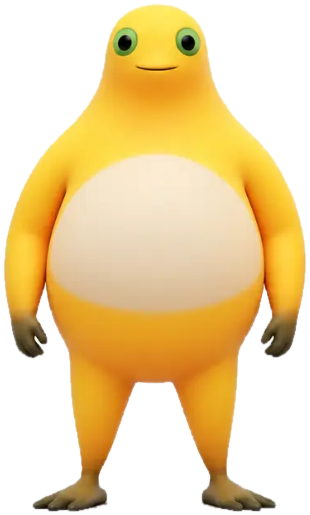
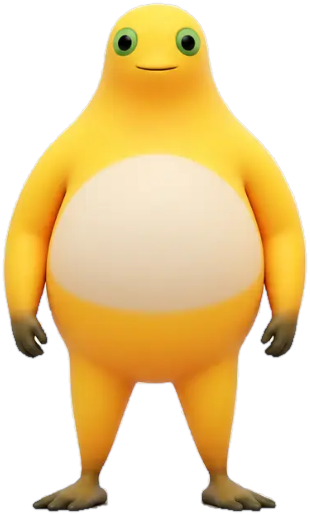
fix(deskpet): 修宠物窗口拖动时尺寸漂移 + 重抠正面图去背景污染
用户实测反馈两个问题（m00919）：

1. 按住宠物会一直变大、还往下移动
   根因：拖动定时器每 16ms 调 w.setPosition(x, y)，setPosition 只给坐标，
   125% 缩放下 Electron 每次都要做 DIP<->物理像素换算，余数被并进窗口尺寸，
   每调一次长 1px。实测 200 次从 191x191 长到 391x391。
   修法：改用 w.setBounds 并显式带 width/height。
   回归：e2e-deskpet-out 新增 P9c（按住 1.2 秒尺寸波动不超过 1px），
   负对照证明退回 setPosition 时该断言会红（1.2 秒涨 38px）。

2. 抠图不干净（边缘发白）
   量出证据：半透明边缘像素平均 B 通道 142，身体是 77，混进了原图浅灰背景。
   修法：用背景中位色做颜色去污染 F=(C-(1-a)*B)/a，只在过渡带生效。
   自检：边缘平均 B 通道 142 -> 91。

自检：typecheck EXIT=0、build EXIT=0、
e2e-deskpet-out PASS 34/0、e2e-deskpet 33/0、e2e-m2 PASS、
e2e-head-order 14/0、e2e-collapse-order 22/0、e2e-settings-shell 51/0。

diff --git a/src/main/petWindow.ts b/src/main/petWindow.ts
@@ -62,7 +62,7 @@ function createPetWindow(): BrowserWindow {
     backgroundColor: '#00000000',
     hasShadow: false,
     resizable: false,
-    // 关键：movable 保持 true，主进程 setPosition 才生效；
+    // 关键：movable 保持 true，主进程 setBounds 才生效；
     // 但用户拖不动它——因为系统标题栏不存在，拖动全靠我们自己算（见 petDragStart）。
     movable: true,
     minimizable: false,
@@ -165,7 +165,15 @@ export function setupPetWindow(opts: { onQuit: () => void }): void {
       const nx = dragOrigin.win.x + (now.x - dragOrigin.cursor.x)
       const ny = dragOrigin.win.y + (now.y - dragOrigin.cursor.y)
       const clamped = clampPetPos({ x: nx, y: ny }, PET_WIN_W, PET_WIN_H)
-      w.setPosition(clamped.x, clamped.y)
+      // 用 setBounds 而不是 setPosition，必须带尺寸——这不是风格选择，是修 bug。
+      //
+      // 实测（2026-11-12）：本机 125% 缩放，连续调 200 次 setPosition，
+      // 窗口从 191×191 一路长到 391×391。原因是 setPosition 只给坐标，
+      // Electron 每次都得在 DIP 和物理像素之间换算，换算的余数被并进尺寸里，
+      // 于是每动一次长 1px。拖动定时器 16ms 一轮，按住不动都会一直变大；
+      // 尺寸涨的时候左上角不动、底边往下走，看起来就是「一直变大还往下跑」。
+      // 同一个探针里 setBounds 显式带 width/height，200 次后尺寸纹丝不动。
+      w.setBounds({ x: clamped.x, y: clamped.y, width: PET_WIN_W, height: PET_WIN_H })
     }, 16)
   })
 

diff --git a/docs/Spec/SPEC-deskpet-photo.md b/docs/Spec/SPEC-deskpet-photo.md
@@ -81,6 +81,34 @@
 从四边泛洪只去掉与边框连通的背景（肚子里的米白高光不会连到边框，所以保住），
 再取躯干中心所在连通块甩掉左边大图探进来的边缘，最后 1px 腐蚀 + 0.8px 高斯做抗锯齿。
 
+### 7.1 白边问题与重抠（2026-11-12 用户反馈后补做）
+
+**用户反馈**：「怎么感觉扣的的不是很干净」（m00919）。
+
+**先量证据再改（[实测] `.tmp/check_halo.py`）**，对比首版产物的两组像素：
+
+| 区域 | 像素数 | 平均 RGBA |
+|---|---|---|
+| 半透明·亮黄区（边缘） | 1961 | (236, 207, **142**, 156) |
+| 不透明·亮黄区（身体） | 68911 | (235, 183, **77**, 255) |
+
+B 通道从 77 涨到 142 —— 边缘半透明像素里混着原图的浅灰背景。
+alpha 混合公式 `C = a·F + (1−a)·B` 中，边缘像素记录的是「角色色 × alpha + 背景色 × (1−alpha)」，
+原样保留会在深色桌面上透出一圈发白的光边。
+
+**这不是「背景没去干净」**：四角 alpha 全为 0，背景区确实抠掉了（此前 `.tmp/check_cutout.py` 已验）。
+问题是**边缘的颜色被背景污染**，学名叫 alpha matte 污染，需要做颜色去污染（decontamination）。
+
+**修法（`.tmp/cutout_front_v2.py`）**：用背景中位色 `(248, 248, 246)` 反解
+`F = (C − (1−a)·B) / a`，只在过渡带（`0.02 < a < 0.995`）替换颜色，实心区保留原色避免整体色偏；
+`a` 下限钳到 0.35 防除零与噪声放大。
+
+**改后自检（[实测]）**：边缘（半透明+亮）1435 个像素的平均 B 通道 **142 → 91**，接近身体的 77。
+产物 `src/renderer/src/assets/pet/bean-photo.png` 310×515、135037 bytes（原 133005）。
+
+**未验证**：这个白边在 132px 的设置页预览里几乎看不出，在 190px 的宠物窗口里是否仍有可察觉的光边——
+只能人眼看，本轮没有做像素级的深色背景对比评测。
+
 ## 八、独立验收记录
 
 **合并**：2026-11-12 14:15 合并回 `main`，合并提交 `a443108`（用户 2026-11-12 14:07 原话「行先合并」）。
